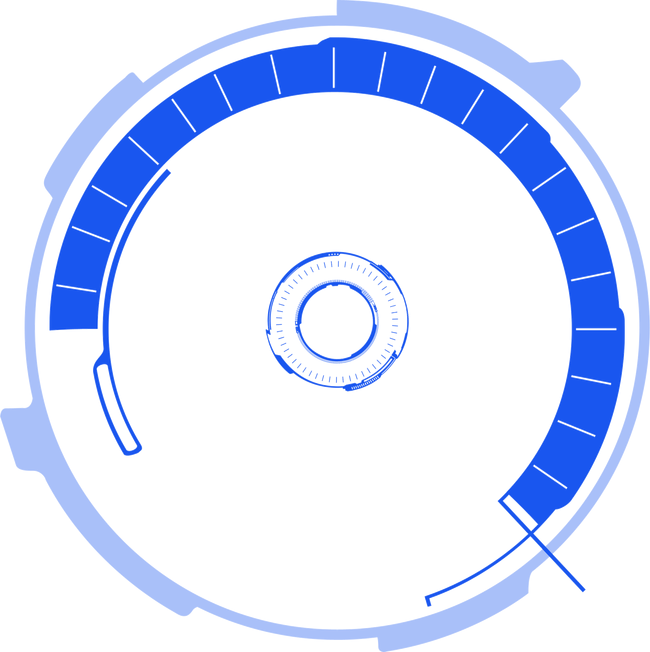
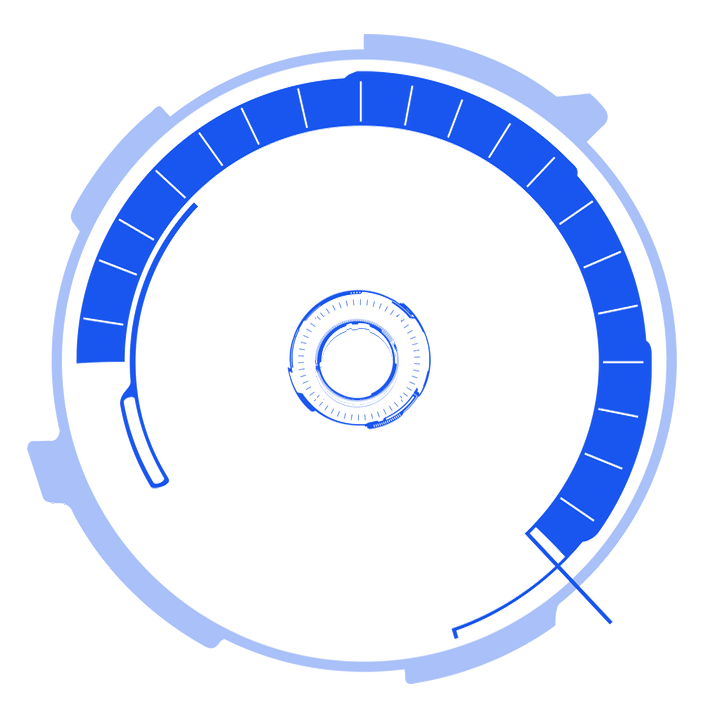
just got up to speech recognition

Changed region(s): [[0.0, 0.0, 1.0, 1.0], [0.4, 0.3681, 0.6462, 0.6135]]

diff --git a/client/src/ActivateListen.jsx b/client/src/ActivateListen.jsx
@@ -1,5 +1,6 @@
 import React from 'react';
 
+import Listener from './Listener';
 import BehaviorCircles from './BehaviorCircles';
 
 import circleIO from './assets/collection-jarvis/circle-inner-outer.png';
@@ -20,8 +21,11 @@ const {
   bigProcessing,
   bigChilling,
   bigListening,
+  coinFlip
 
 } = BehaviorCircles;
+
+const { recognition, SpeechRecognitionEvent } = Listener;
 
 export default class ActivateListen extends React.Component {
   constructor(props) {
@@ -33,6 +37,7 @@ export default class ActivateListen extends React.Component {
       bigImage: circleIO,
       bigOpacity: 1,
       bigInterval: undefined,
+      smallZ: 5,
       smallSpin: 30,
       smallTime: 5000,
       smallScale: 0.70,
@@ -57,11 +62,11 @@ export default class ActivateListen extends React.Component {
       await this.setTheState('listenState', 'chilling', 'arcOpacity', 0)
       this.stopIntervals()
       console.log('slowingdown', this.state.listenState)
-    }, 10000)
+    }, 1000)
 
     let bigInterval;
     let smallInterval;
-    let ratioRandom = (num) => Math.random() >= num ? true : false;
+    let ratioRandom = (num) => coinFlip(num);
 
     this.setTheState('bigSpin', this.rando(720) - 360, 'bigTime', this.rando(4000, 300))
     this.setTheState('smallSpin', this.rando(90, 25), 'smallTime', this.rando(600, 200))
@@ -78,7 +83,28 @@ export default class ActivateListen extends React.Component {
         break;
 
       case 'listening':
-        bigInterval = setInterval(() => bigListening(), )
+        this.setTheState('bigTime', 2800, 'bigScale', 1)
+        this.setTheState('smallTime', 2500, 'smallScale', '1.4')
+        this.setTheState('centerScale', 1, 'centerTime', 4000)
+        setTimeout(() => {
+          bigInterval = setInterval(() => bigListening(this.setTheState, this.rando, this.state.bigSpin), 10000);
+          smallInterval = setInterval(() => smallListening(this.setTheState, this.rando, this.state.smallSpin), 8000);
+          recognition.start()
+          recognition.onresult = (event) => {
+            console.log('event', event)
+          }
+          recognition.onspeechend = function() {
+            recognition.stop();
+          }
+
+          recognition.onnomatch = function(event) {
+            diagnostic.textContent = "I didn't recognise that color.";
+          }
+
+          recognition.onerror = function(event) {
+            diagnostic.textContent = 'Error occurred in recognition: ' + event.error;
+          }
+        }, 2800)
         break;
     }
 
@@ -107,6 +133,12 @@ export default class ActivateListen extends React.Component {
             this.setTheState('arcOpacity', 1)
           }, 1000)
           setTimeout(() => {
+            let timeObj = {
+              theBigTime: 1500,
+              theSmallTime: 1500,
+              theCenterTime: 1500
+            }
+            this.reset(false, timeObj);
             this.setTheState('listenState', 'listening')
           }, 1700)
         })
@@ -139,6 +171,45 @@ export default class ActivateListen extends React.Component {
     }
   }
 
+  reset(showOpacity, newTimes) {
+    if(showOpacity) {
+      this.setTheState({
+        bigOpacity: 1,
+        smallOpacity: 1
+      })
+    }
+
+    let theTimeObj = {
+      theBigTime: 5000,
+      theSmallTime: 5000,
+      theCenterTime: 20000,
+    }
+
+    if(newTimes) {
+      for(let key in newTimes) {
+        theTimeObj[key] = newTimes[key]
+      }
+    }
+
+    let { theBigTime, theSmallTime, theCenterTime } = theTimeObj;
+
+    this.setState({
+      bigSpin: 0,
+      bigTime: theBigTime,
+      bigScale: 1,
+      bigImage: circleIO,
+      bigInterval: undefined,
+      smallSpin: 30,
+      smallTime: theSmallTime,
+      smallScale: 0.70,
+      smallImage: circleFCW,
+      smallInterval: undefined,
+      centerSpin: 360,
+      centerTime: theCenterTime,
+      centerScale: 0,
+    })
+  }
+
   async setTheState(key, value, keyTwo, valueTwo, keyThree, valueThree, keyFour, valueFour) {
     let newState = {
       [key]: value,
@@ -165,12 +236,18 @@ export default class ActivateListen extends React.Component {
       transition: `all ${parseFloat(this.rando(this.state.bigTime)/1000)}s ease-in-out`,
       transform: `rotate(${this.rando(this.state.bigSpin)}deg) scale(${this.state.bigScale})`,
       opacity: this.state.bigOpacity,
+      top: this.state.listenState === 'listening' ? '0px' : '2px',
+      left: this.state.listenState === 'listening' ? '5px' : '8px'
     }
 
     const styleSmall = {
       transition: `all ${parseFloat(this.rando(this.state.smallTime)/1000)}s`,
-      transform: `rotate(${this.rando(this.state.smallSpin)}deg) scale(${this.state.smallScale})`,
+      // transform: `rotate(${this.rando(this.state.smallSpin)}deg) scale(${this.state.smallScale})`,
+      transform: `rotate(0deg) scale(${this.state.smallScale})`,
       opacity: this.state.smallOpacity,
+      top: this.state.listenState === 'listening' ? '-35px' : '6px',
+      left: this.state.listenState === 'listening' ? '0px' : '0px',
+      zIndex: this.state.listenState === 'listening' ? '3' : '5',
     }
 
     const styleCenter = {
@@ -203,7 +280,7 @@ export default class ActivateListen extends React.Component {
           <figure className="listen-arc-container" style={ styleArc }>
             <img src={ arcReactor } className="listen-ai-arc" alt="arc-reactor" />
           </figure>
-          <figure className="listen-arcshadow-container">
+          <figure className="listen-arcshadow-container" style={{ visibility: 'hidden' }}>
             <img src={ arcReactor } className="listen-ai-arcshadow" alt="arc-reactor-shadow" />
           </figure>
         </article>

diff --git a/client/src/BehaviorCircles.jsx b/client/src/BehaviorCircles.jsx
@@ -29,8 +29,12 @@ const BehaviorForCircles = {
     }, 19000)
   },
 
+  smallListening(setTheState, rando, spin) {
+    setTheState('smallTime', 8000, 'smallSpin', spin + 360)
+  },
+
   bigProcessing(setTheState, rando) {
-    setTheState('bigSpin', rando(720) - 360), 'bigTime', rando(2500, 1500)
+    setTheState('bigSpin', rando(720) - 360, 'bigTime', rando(2500, 1500))
   },
 
   bigChilling(setTheState, rando) {
@@ -38,8 +42,7 @@ const BehaviorForCircles = {
   },
 
   bigListening(setTheState, rando, spin) {
-    const coin = this.coinFlip()
-    setTheState('bigSpin', spin + rando(35, 10),)
+    setTheState('bigTime', 10000, 'bigSpin', spin + 360)
   },
 
   coinFlip(bias) {

diff --git a/client/src/App.js b/client/src/App.js
@@ -8,14 +8,23 @@ class App extends React.Component {
   constructor(props) {
     super(props);
     this.state = {
+      speechResults: undefined
     };
+
+    this.setTheState = this.setTheState.bind(this);
+  }
+
+  setTheState(key, value) {
+    this.setState({
+      [key]: value
+    })
   }
 
   render() {
     return (
       <div className="main-container">
-
-        <ActivateListen />
+        <p style={{color:'white'}}>{this.state.speechResults}</p>
+        <ActivateListen setParentState={ this.setTheState }/>
       </div>
     );
   }

diff --git a/client/src/Listener.jsx b/client/src/Listener.jsx
@@ -1,0 +1,12 @@
+const SpeechRecognition = window.SpeechRecognition || window.webkitSpeechRecognition;
+const SpeechRecognitionEvent = window.SpeechRecognitionEvent || window.webkitSpeechRecognitionEvent;
+// const SpeechGrammarList = SpeechGrammarList || webkitSpeechGrammarList
+
+let recognition = new SpeechRecognition();
+recognition.lang = 'en-US'
+recognition.interimResults = false;
+recognition.maxAlternatives = 1;
+
+const Listener = { recognition, SpeechRecognitionEvent }
+
+export default Listener;

diff --git a/client/src/ActivateListen.css b/client/src/ActivateListen.css
@@ -26,10 +26,8 @@
   width: 100%;
   height: 100%;
   position: absolute;
-  bottom: 3px;
-  right: 1px;
   transition: all 2s ease-in-out;
-  z-index: 2;
+  z-index: 4;
 }
 
 .listen-smallcircle-container {
@@ -38,7 +36,6 @@
   position: absolute;
   transform: scale(0.70);
   transition: all 1s;
-  z-index: 3;
 }
 
 .listen-center-container {
@@ -47,7 +44,7 @@
   position: absolute;
   transform: scale(0.70);
   transition: all 1s;
-  z-index: 3;
+  z-index: 2;
 }
 
 .listen-arc-container {
